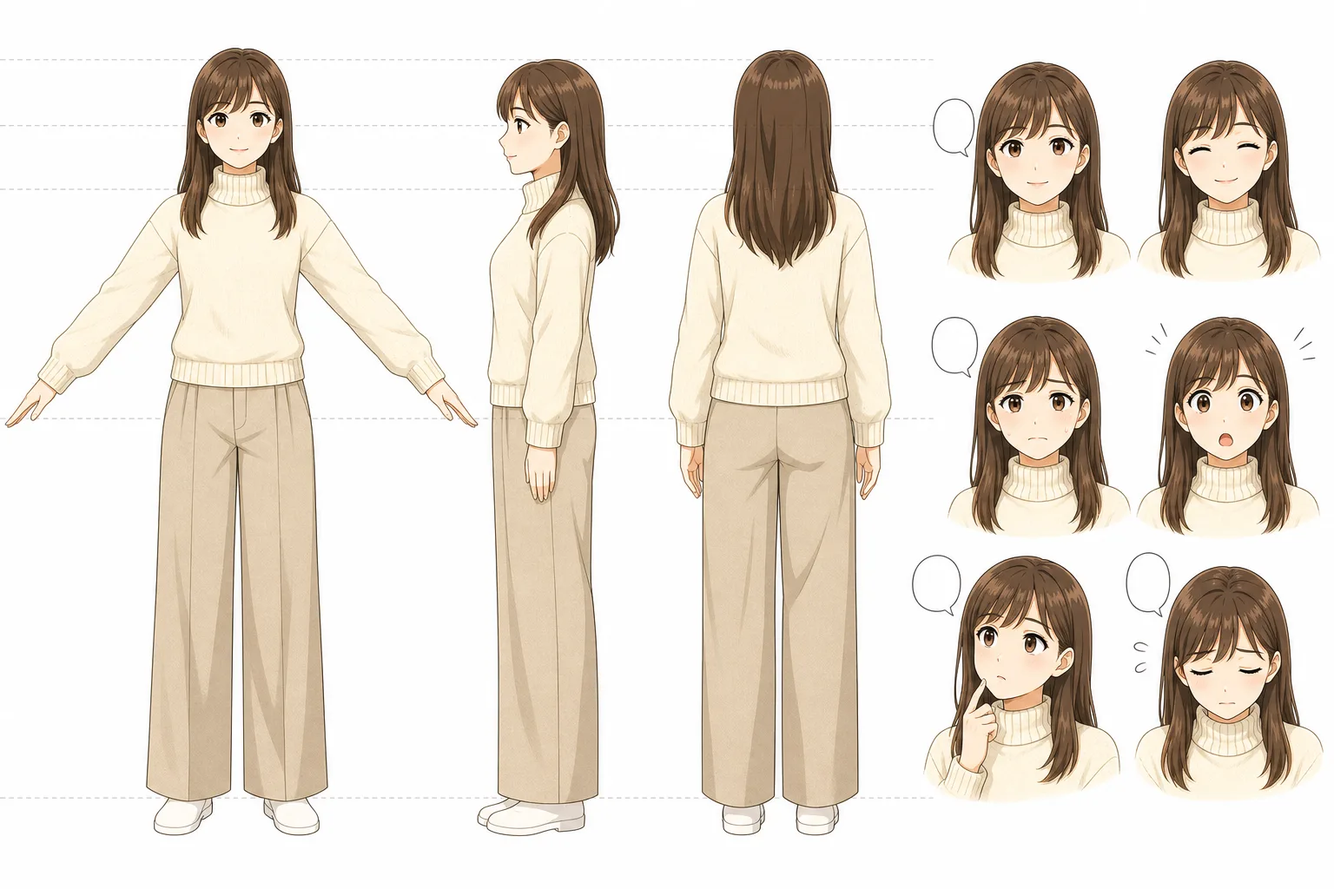
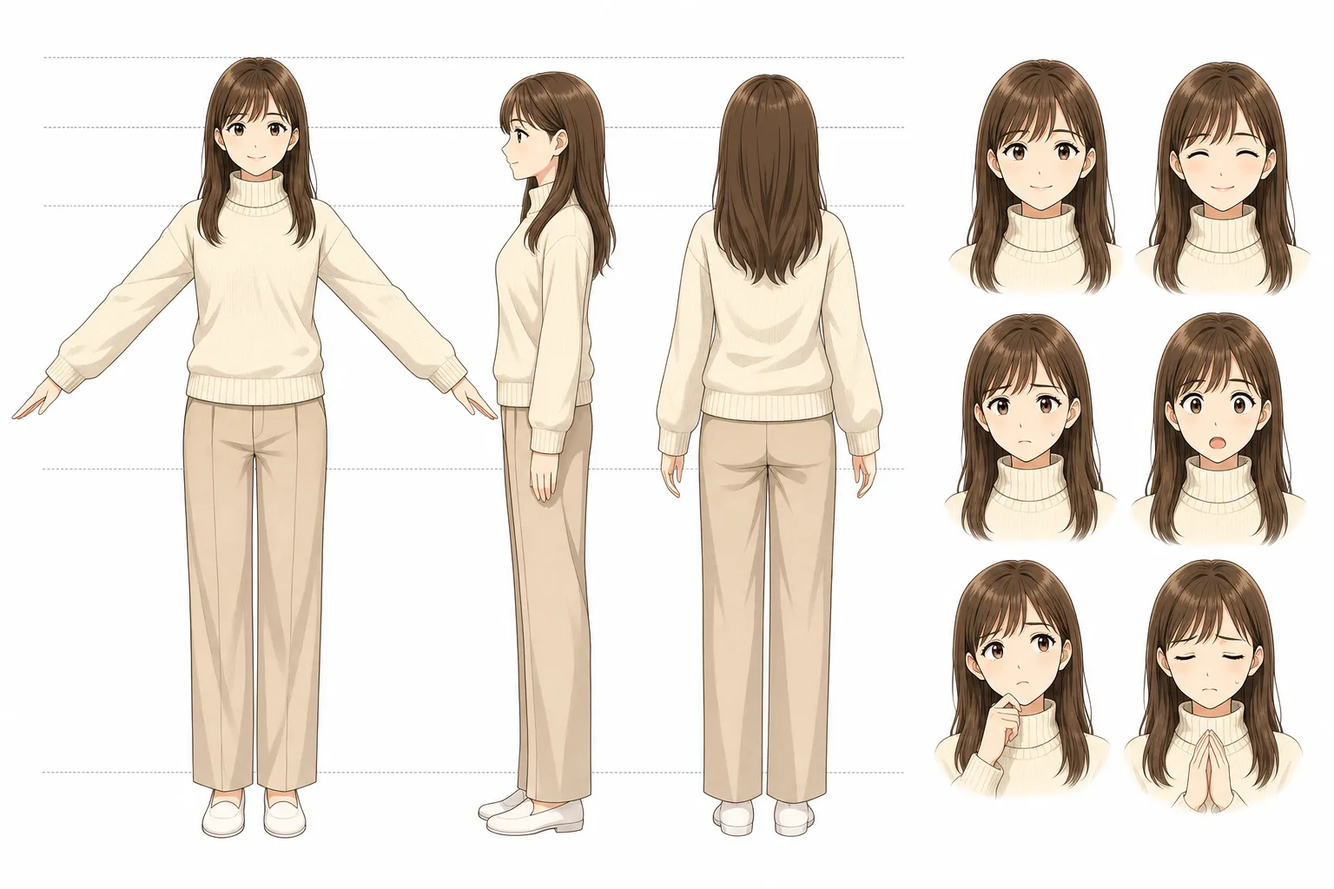
content: 社員キャラの設定を実在のモデルに合わせて書き直す
ご提供の情報と会社サイトの社員紹介から、役割と性格を具体化した。
**名前は架空のまま**（松井社長だけ実名。ほかは モデルとした架空キャラ）。

- 松井（社長）… 2018年に会社を作った。カンボジアと日本をつなぐプログラムを
  自分ではじめ、学生とも直接会って話す
- 藤木（取締役・社長の右腕）… 会社ぜんたいのしくみを作る。お客さまと直接話す
  営業と要件定義。カンボジアで名刺こうかんの授業もした（モデル: 藤田さん）
- 奥田（プログラマー）… 未経験から入り、先輩に聞きながら成長。いまはお客さまの
  会社に行ってはたらく（SES）（モデル: 奥野さん・採用ページの社員の声）
- 西田（事務）… 週2日出勤、ほかは在宅（モデル: 西出さん・同上）
- 湯川（広報営業）… 未経験から挑戦。人なつっこい（モデル: 湯浅さん・同上）

設定画は6人ぶんとも Codex で生成済み（`public/img/characters/<id>/sheet.webp`）。
西田のシートは名前を戻す際に作り直した。

保護パス public/img/characters/ を含むため ALLOW_SHARED=1。

Changed region(s): [[0.0, 0.0312, 0.6875, 0.9375], [0.6875, 0.0625, 1.0, 0.9375], [0.5, 0.8125, 0.5312, 0.875]]

diff --git a/src/content/git-contents.generated.ts b/src/content/git-contents.generated.ts
@@ -17,21 +17,21 @@ export const GIT_CONTENTS: readonly unknown[] = [
   // content/articles/m2_asakai_article.json
   {"kind":"article","id":"m2-asakai-article","title":"朝会と 報告の コツ","description":"朝会で 話すことと、報告の 形を まなびます。","furigana":[["朝会","あさかい"],["報告","ほうこく"],["結論","けつろん"],["予定","よてい"],["毎日","まいにち"],["順調","じゅんちょう"],["数字","すうじ"],["立","た"],["話","はな"],["言","い"],["終","お"],["形","かたち"],["日","ひ"],["聞","き"]],"blocks":[{"kind":"paragraph","text":"朝会は、毎日 あさに する みじかい かいぎです。チームの ようすを みんなで そろえます。"},{"kind":"image","prompt":"Anime illustration, no readable text. A small friendly software team having a short morning stand-up meeting in a bright office: four people standing in a loose half circle near a whiteboard, coffee cups on a nearby desk, big window with soft morning light and a blue sky outside. Everyone looks relaxed and attentive; one person is speaking briefly while the others listen. Wide shot, clean line art, flat cel shading, soft pastel palette of sky blue, cream and coral, rounded friendly shapes. No text, no letters, no numbers, no signage, no speech bubbles, no readable text.","refs":["characters/hendy/reference.png","characters/nyam/reference.png"],"status":"empty","caption":"朝会は 立ったまま、みじかく します。"},{"kind":"heading","level":2,"text":"朝会で 話す 3つのこと"},{"kind":"paragraph","text":"話すことは 3つ です。きのう したこと、きょう すること、こまっていることです。"},{"kind":"steps","items":["きのう したことを、みじかく 言う","きょう することを、みじかく 言う","こまっていることを、そのまま 言う"]},{"kind":"callout","tone":"point","text":"はじめに 結論を 言います。りゆうは あとです。"},{"kind":"heading","level":2,"text":"こまりごとは はやく つたえる"},{"kind":"paragraph","text":"こまっていることは、はやく 言うほど たすかります。「順調です」だけで 終わると、あとで こまります。"},{"kind":"callout","tone":"care","text":"「だいじょうぶです」だけでは、つたわりにくいです。数字や 日にちを そえましょう。"},{"kind":"vocab","items":[{"term":"報告","reading":"ほうこく","meaning":"したことを つたえること"},{"term":"結論","reading":"けつろん","meaning":"いちばん 言いたい こと"},{"term":"予定","reading":"よてい","meaning":"これから する ことです"},{"term":"順調","reading":"じゅんちょう","meaning":"よてい どおりに すすんで いること"}]},{"kind":"link","ref":"sample_asakai","type":"listening","label":"朝会を 聞いてみる"}]},
   // content/characters/fujiki.json
-  {"kind":"character","id":"fujiki","name":"藤木","reading":"ふじき","role":"取締役","looks":"Japanese-style anime character, man in his forties, lean athletic build, energetic upright posture. Very short cropped black hair. Tanned skin, angular jaw, dark brown eyes, thick eyebrows, wide cheerful open-mouth smile. Outfit: navy single-breasted blazer (#1F2A44) worn open over a plain white crew-neck T-shirt, dark navy trousers, white sneakers. No tie, no glasses.","personality":"元気で 声が 大きいです。人を はげますのが とくいです。すぐに 行動します。","sheet":{"prompt":"A character model sheet for a Japanese language-learning manga.\nLayout: front view (full body, T-pose) on the left, right side view and back view next to it,\nand a column of 6 bust-up facial expressions on the right\n(neutral, smiling, worried, surprised, thinking, apologetic).\nWhite background. Light grid lines overlay to keep eye level consistent across views.\nCharacter: 取締役 — Japanese-style anime character, man in his forties, lean athletic build, energetic upright posture. Very short cropped black hair. Tanned skin, angular jaw, dark brown eyes, thick eyebrows, wide cheerful open-mouth smile. Outfit: navy single-breasted blazer (#1F2A44) worn open over a plain white crew-neck T-shirt, dark navy trousers, white sneakers. No tie, no glasses.\nPersonality (affects posture and expression): 元気で 声が 大きいです。人を はげますのが とくいです。すぐに 行動します。\nStyle: clean modern Japanese manga / anime style, soft cel shading, bright friendly palette, rounded shapes, no harsh shadows, office and school settings, contemporary Japan.\nAvoid: no text, no letters, no kanji, no kana, no numbers anywhere in the image, speech balloons must be completely EMPTY (white inside, no writing), no watermark, no signature, no logo, no frame border, no six fingers, no extra limbs, no costume changes between panels, no duplicate faces of the same character in one panel.\nDo NOT write the character's name or any label on the sheet.","refs":["/img/characters/fujiki/reference.jpg"],"status":"done","src":"/img/characters/fujiki/sheet.webp"},"references":["/img/characters/fujiki/reference.jpg"]},
+  {"kind":"character","id":"fujiki","name":"藤木","reading":"ふじき","role":"取締役（社長の右腕）","looks":"Japanese-style anime character, man in his forties, lean athletic build, energetic upright posture. Very short cropped black hair. Tanned skin, angular jaw, dark brown eyes, thick eyebrows, wide cheerful open-mouth smile. Outfit: navy single-breasted blazer (#1F2A44) worn open over a plain white crew-neck T-shirt, dark navy trousers, white sneakers. No tie, no glasses.","personality":"会社ぜんたいの しくみを 作る 人です。お客さまと 直接 話して、何が ほしいかを 聞き、しごとの 形に します（営業と 要件定義）。カンボジアにも 来て、名刺こうかんの 授業を しました。元気で 声が 大きいです。","sheet":{"prompt":"A character model sheet for a Japanese language-learning manga.\nLayout: front view (full body, T-pose) on the left, right side view and back view next to it,\nand a column of 6 bust-up facial expressions on the right\n(neutral, smiling, worried, surprised, thinking, apologetic).\nWhite background. Light grid lines overlay to keep eye level consistent across views.\nCharacter: 取締役 — Japanese-style anime character, man in his forties, lean athletic build, energetic upright posture. Very short cropped black hair. Tanned skin, angular jaw, dark brown eyes, thick eyebrows, wide cheerful open-mouth smile. Outfit: navy single-breasted blazer (#1F2A44) worn open over a plain white crew-neck T-shirt, dark navy trousers, white sneakers. No tie, no glasses.\nPersonality (affects posture and expression): 元気で 声が 大きいです。人を はげますのが とくいです。すぐに 行動します。\nStyle: clean modern Japanese manga / anime style, soft cel shading, bright friendly palette, rounded shapes, no harsh shadows, office and school settings, contemporary Japan.\nAvoid: no text, no letters, no kanji, no kana, no numbers anywhere in the image, speech balloons must be completely EMPTY (white inside, no writing), no watermark, no signature, no logo, no frame border, no six fingers, no extra limbs, no costume changes between panels, no duplicate faces of the same character in one panel.\nDo NOT write the character's name or any label on the sheet.","refs":["/img/characters/fujiki/reference.jpg"],"status":"done","src":"/img/characters/fujiki/sheet.webp"},"references":["/img/characters/fujiki/reference.jpg"]},
   // content/characters/hendy.json
   {"kind":"character","id":"hendy","name":"ヘンディ","reading":"へんでぃ","role":"先輩エンジニア（PM兼プログラマー・チームの相談役）","looks":"Japanese-style anime character, man in his late twenties, slim build, about 175cm, relaxed upright posture. Short black hair, slightly tousled with soft spiky tips and a loose fringe. Dark brown eyes, straight thick eyebrows, clean-shaven, gentle smile. Business suit: navy single-breasted two-button jacket (#2A3550) worn open or buttoned, crisp white dress shirt, solid navy necktie (#233A63), matching navy slacks (#2E3A57), black leather belt, black leather lace-up oxford shoes. No lanyard, no bag, no glasses.","personality":"真面目で おだやかです。人の 話を さいごまで ききます。好奇心が つよく、新しい ことを たのしみます。教えるときは まず ほめてから、つぎに することを 1つだけ 言います。","sheet":{"src":"/img/characters/hendy/sheet.webp","prompt":"ユーザー提供のキャラクター設定シート（正面全身・三面図・側面・表情4カット・服装・カラーパレット）をwebpにしたもの。生成物ではないのでプロンプトは無い。日本語のラベルが入っているが、参照入力としては問題ない。","refs":["/img/characters/hendy/reference.png"],"status":"done"},"references":["/img/characters/hendy/reference.png"],"voice":"Charon"},
   // content/characters/matsui.json
-  {"kind":"character","id":"matsui","name":"松井","reading":"まつい","role":"社長（代表取締役社長）","looks":"Japanese-style anime character, man in his forties, average build, calm confident posture. Black hair with volume on top and a soft side-swept fringe. Fair skin, oval face with soft cheeks, dark brown eyes, straight eyebrows, gentle friendly closed-lip smile. Outfit: navy single-breasted blazer (#1F2A44) worn open over a plain white crew-neck T-shirt, dark navy trousers, brown leather shoes. No tie, no glasses.","personality":"おだやかで たよりに なります。人の 話を よく ききます。大きな 目標を たのしそうに 話します。","sheet":{"prompt":"A character model sheet for a Japanese language-learning manga.\nLayout: front view (full body, T-pose) on the left, right side view and back view next to it,\nand a column of 6 bust-up facial expressions on the right\n(neutral, smiling, worried, surprised, thinking, apologetic).\nWhite background. Light grid lines overlay to keep eye level consistent across views.\nCharacter: 社長（代表取締役社長） — Japanese-style anime character, man in his forties, average build, calm confident posture. Black hair with volume on top and a soft side-swept fringe. Fair skin, oval face with soft cheeks, dark brown eyes, straight eyebrows, gentle friendly closed-lip smile. Outfit: navy single-breasted blazer (#1F2A44) worn open over a plain white crew-neck T-shirt, dark navy trousers, brown leather shoes. No tie, no glasses.\nPersonality (affects posture and expression): おだやかで たよりに なります。人の 話を よく ききます。大きな 目標を たのしそうに 話します。\nStyle: clean modern Japanese manga / anime style, soft cel shading, bright friendly palette, rounded shapes, no harsh shadows, office and school settings, contemporary Japan.\nAvoid: no text, no letters, no kanji, no kana, no numbers anywhere in the image, speech balloons must be completely EMPTY (white inside, no writing), no watermark, no signature, no logo, no frame border, no six fingers, no extra limbs, no costume changes between panels, no duplicate faces of the same character in one panel.\nDo NOT write the character's name or any label on the sheet.","refs":["/img/characters/matsui/reference.jpg"],"status":"done","src":"/img/characters/matsui/sheet.webp"},"references":["/img/characters/matsui/reference.jpg"]},
+  {"kind":"character","id":"matsui","name":"松井","reading":"まつい","role":"社長（代表取締役社長）","looks":"Japanese-style anime character, man in his forties, average build, calm confident posture. Black hair with volume on top and a soft side-swept fringe. Fair skin, oval face with soft cheeks, dark brown eyes, straight eyebrows, gentle friendly closed-lip smile. Outfit: navy single-breasted blazer (#1F2A44) worn open over a plain white crew-neck T-shirt, dark navy trousers, brown leather shoes. No tie, no glasses.","personality":"2018年に この 会社を 作りました。カンボジアと 日本を つなぐ プログラムを 自分で はじめた 人です。「世界中に すごい 人が いる」と しんじて います。学生とも 直接 会って 話します。大きな 目標を たのしそうに 話します。","sheet":{"prompt":"A character model sheet for a Japanese language-learning manga.\nLayout: front view (full body, T-pose) on the left, right side view and back view next to it,\nand a column of 6 bust-up facial expressions on the right\n(neutral, smiling, worried, surprised, thinking, apologetic).\nWhite background. Light grid lines overlay to keep eye level consistent across views.\nCharacter: 社長（代表取締役社長） — Japanese-style anime character, man in his forties, average build, calm confident posture. Black hair with volume on top and a soft side-swept fringe. Fair skin, oval face with soft cheeks, dark brown eyes, straight eyebrows, gentle friendly closed-lip smile. Outfit: navy single-breasted blazer (#1F2A44) worn open over a plain white crew-neck T-shirt, dark navy trousers, brown leather shoes. No tie, no glasses.\nPersonality (affects posture and expression): おだやかで たよりに なります。人の 話を よく ききます。大きな 目標を たのしそうに 話します。\nStyle: clean modern Japanese manga / anime style, soft cel shading, bright friendly palette, rounded shapes, no harsh shadows, office and school settings, contemporary Japan.\nAvoid: no text, no letters, no kanji, no kana, no numbers anywhere in the image, speech balloons must be completely EMPTY (white inside, no writing), no watermark, no signature, no logo, no frame border, no six fingers, no extra limbs, no costume changes between panels, no duplicate faces of the same character in one panel.\nDo NOT write the character's name or any label on the sheet.","refs":["/img/characters/matsui/reference.jpg"],"status":"done","src":"/img/characters/matsui/sheet.webp"},"references":["/img/characters/matsui/reference.jpg"]},
   // content/characters/nishida.json
-  {"kind":"character","id":"nishida","name":"西田","reading":"にしだ","role":"社員","looks":"Japanese-style anime character, woman in her mid twenties, slim, gentle posture. Long light-brown hair falling past the shoulders with a soft straight fringe. Fair skin, dark brown eyes, warm closed-lip smile. Outfit: cream-white chunky-knit turtleneck sweater (#F0E6D2), beige wide trousers, white shoes. No glasses.","personality":"しずかで ていねいです。こまかい ところに よく 気が つきます。","sheet":{"prompt":"A character model sheet for a Japanese language-learning manga.\nLayout: front view (full body, T-pose) on the left, right side view and back view next to it,\nand a column of 6 bust-up facial expressions on the right\n(neutral, smiling, worried, surprised, thinking, apologetic).\nWhite background. Light grid lines overlay to keep eye level consistent across views.\nCharacter: 社員 — Japanese-style anime character, woman in her mid twenties, slim, gentle posture. Long light-brown hair falling past the shoulders with a soft straight fringe. Fair skin, dark brown eyes, warm closed-lip smile. Outfit: cream-white chunky-knit turtleneck sweater (#F0E6D2), beige wide trousers, white shoes. No glasses.\nPersonality (affects posture and expression): しずかで ていねいです。こまかい ところに よく 気が つきます。\nStyle: clean modern Japanese manga / anime style, soft cel shading, bright friendly palette, rounded shapes, no harsh shadows, office and school settings, contemporary Japan.\nAvoid: no text, no letters, no kanji, no kana, no numbers anywhere in the image, speech balloons must be completely EMPTY (white inside, no writing), no watermark, no signature, no logo, no frame border, no six fingers, no extra limbs, no costume changes between panels, no duplicate faces of the same character in one panel.\nDo NOT write the character's name or any label on the sheet.","refs":["/img/characters/nishida/reference.jpg"],"status":"done","src":"/img/characters/nishida/sheet.webp"},"references":["/img/characters/nishida/reference.jpg"]},
+  {"kind":"character","id":"nishida","name":"西田","reading":"にしだ","role":"事務","looks":"Japanese-style anime character, woman in her mid twenties, slim, gentle posture. Long light-brown hair falling past the shoulders with a soft straight fringe. Fair skin, dark brown eyes, warm closed-lip smile. Outfit: cream-white chunky-knit turtleneck sweater (#F0E6D2), beige wide trousers, white shoes. No glasses.","personality":"会社の じむの しごとを して います。出勤は 週2日で、ほかは 家で はたらきます。しずかで ていねいです。こまかい ところに よく 気が つきます。","sheet":{"prompt":"A character model sheet for a Japanese language-learning manga.\nLayout: front view (full body, T-pose) on the left, right side view and back view next to it,\nand a column of 6 bust-up facial expressions on the right\n(neutral, smiling, worried, surprised, thinking, apologetic).\nWhite background. Light grid lines overlay to keep eye level consistent across views.\nCharacter: 社員 — Japanese-style anime character, woman in her mid twenties, slim, gentle posture. Long light-brown hair falling past the shoulders with a soft straight fringe. Fair skin, dark brown eyes, warm closed-lip smile. Outfit: cream-white chunky-knit turtleneck sweater (#F0E6D2), beige wide trousers, white shoes. No glasses.\nPersonality (affects posture and expression): しずかで ていねいです。こまかい ところに よく 気が つきます。\nStyle: clean modern Japanese manga / anime style, soft cel shading, bright friendly palette, rounded shapes, no harsh shadows, office and school settings, contemporary Japan.\nAvoid: no text, no letters, no kanji, no kana, no numbers anywhere in the image, speech balloons must be completely EMPTY (white inside, no writing), no watermark, no signature, no logo, no frame border, no six fingers, no extra limbs, no costume changes between panels, no duplicate faces of the same character in one panel.\nDo NOT write the character's name or any label on the sheet.","refs":["/img/characters/nishida/reference.jpg"],"status":"done","src":"/img/characters/nishida/sheet.webp"},"references":["/img/characters/nishida/reference.jpg"]},
   // content/characters/nyam.json
   {"kind":"character","id":"nyam","name":"ニャム","reading":"にゃむ","role":"同期の新人エンジニア（学習者と同じ立場）","looks":"Southeast Asian woman in her early twenties. Dark brown bob haircut ending at the jaw, straight fringe just above the eyebrows, one small black hair clip on the right side. Round face, large dark brown eyes, small mouth. Wears a coral (#F2654A) knit cardigan over a plain cream blouse, dark navy ankle-length trousers, and flat beige loafers. Carries a small A6 white notebook and a blue ballpoint pen. Height about 158cm, slight build, slightly hunched shoulders when nervous.","personality":"まじめで よく メモを とる。きんちょうすると 話が 長くなり、けつろんが あとに なる。まちがえても もう一度 やってみる。","sheet":{"src":"/img/characters/nyam/sheet.webp","refs":[],"status":"done"},"references":[],"voice":"Leda"},
   // content/characters/okuda.json
-  {"kind":"character","id":"okuda","name":"奥田","reading":"おくだ","role":"社員（エンジニア）","looks":"Japanese-style anime character, man in his mid twenties, medium build, relaxed posture. Wavy messy black hair with volume. Black rectangular thick-rimmed glasses. Fair skin, dark brown eyes, calm gentle smile. Outfit: dark green pullover hoodie (#2E4034) with drawstrings and no writing on it, dark trousers, grey sneakers.","personality":"おちついて います。ひとつの ことに しゅうちゅうします。聞かれると ていねいに 教えます。","sheet":{"prompt":"A character model sheet for a Japanese language-learning manga.\nLayout: front view (full body, T-pose) on the left, right side view and back view next to it,\nand a column of 6 bust-up facial expressions on the right\n(neutral, smiling, worried, surprised, thinking, apologetic).\nWhite background. Light grid lines overlay to keep eye level consistent across views.\nCharacter: 社員（エンジニア） — Japanese-style anime character, man in his mid twenties, medium build, relaxed posture. Wavy messy black hair with volume. Black rectangular thick-rimmed glasses. Fair skin, dark brown eyes, calm gentle smile. Outfit: dark green pullover hoodie (#2E4034) with drawstrings and no writing on it, dark trousers, grey sneakers.\nPersonality (affects posture and expression): おちついて います。ひとつの ことに しゅうちゅうします。聞かれると ていねいに 教えます。\nStyle: clean modern Japanese manga / anime style, soft cel shading, bright friendly palette, rounded shapes, no harsh shadows, office and school settings, contemporary Japan.\nAvoid: no text, no letters, no kanji, no kana, no numbers anywhere in the image, speech balloons must be completely EMPTY (white inside, no writing), no watermark, no signature, no logo, no frame border, no six fingers, no extra limbs, no costume changes between panels, no duplicate faces of the same character in one panel.\nDo NOT write the character's name or any label on the sheet.","refs":["/img/characters/okuda/reference.jpg"],"status":"done","src":"/img/characters/okuda/sheet.webp"},"references":["/img/characters/okuda/reference.jpg"]},
+  {"kind":"character","id":"okuda","name":"奥田","reading":"おくだ","role":"プログラマー（お客さまの 会社で はたらく）","looks":"Japanese-style anime character, man in his mid twenties, medium build, relaxed posture. Wavy messy black hair with volume. Black rectangular thick-rimmed glasses. Fair skin, dark brown eyes, calm gentle smile. Outfit: dark green pullover hoodie (#2E4034) with drawstrings and no writing on it, dark trousers, grey sneakers.","personality":"プログラミングは 未経験で 入りました。先輩に 聞きながら 成長しました。いまは お客さまの 会社に 行って はたらいて います（SES）。おちついて いて、聞かれると ていねいに 教えます。","sheet":{"prompt":"A character model sheet for a Japanese language-learning manga.\nLayout: front view (full body, T-pose) on the left, right side view and back view next to it,\nand a column of 6 bust-up facial expressions on the right\n(neutral, smiling, worried, surprised, thinking, apologetic).\nWhite background. Light grid lines overlay to keep eye level consistent across views.\nCharacter: 社員（エンジニア） — Japanese-style anime character, man in his mid twenties, medium build, relaxed posture. Wavy messy black hair with volume. Black rectangular thick-rimmed glasses. Fair skin, dark brown eyes, calm gentle smile. Outfit: dark green pullover hoodie (#2E4034) with drawstrings and no writing on it, dark trousers, grey sneakers.\nPersonality (affects posture and expression): おちついて います。ひとつの ことに しゅうちゅうします。聞かれると ていねいに 教えます。\nStyle: clean modern Japanese manga / anime style, soft cel shading, bright friendly palette, rounded shapes, no harsh shadows, office and school settings, contemporary Japan.\nAvoid: no text, no letters, no kanji, no kana, no numbers anywhere in the image, speech balloons must be completely EMPTY (white inside, no writing), no watermark, no signature, no logo, no frame border, no six fingers, no extra limbs, no costume changes between panels, no duplicate faces of the same character in one panel.\nDo NOT write the character's name or any label on the sheet.","refs":["/img/characters/okuda/reference.jpg"],"status":"done","src":"/img/characters/okuda/sheet.webp"},"references":["/img/characters/okuda/reference.jpg"]},
   // content/characters/risa.json
   {"kind":"character","id":"risa","name":"りさ","reading":"りさ","role":"日本語の先生","looks":"Japanese-style anime character, woman in her early twenties, slim, lively posture. Long straight black hair tied in a low ponytail, with a straight fringe across the forehead. Fair skin, dark brown eyes, bright open smile. Outfit: navy short-sleeve polo shirt (#26355B) with a small white embroidered mark on the left chest, long black pleated skirt to mid-calf, white sneakers. No glasses.","personality":"あかるくて 元気です。ゆっくり はっきり 話します。よく ほめます。","sheet":{"prompt":"A character model sheet for a Japanese language-learning manga.\nLayout: front view (full body, T-pose) on the left, right side view and back view next to it,\nand a column of 6 bust-up facial expressions on the right\n(neutral, smiling, worried, surprised, thinking, apologetic).\nWhite background. Light grid lines overlay to keep eye level consistent across views.\nCharacter: 日本語の先生 — Japanese-style anime character, woman in her early twenties, slim, lively posture. Long straight black hair tied in a low ponytail, with a straight fringe across the forehead. Fair skin, dark brown eyes, bright open smile. Outfit: navy short-sleeve polo shirt (#26355B) with a small white embroidered mark on the left chest, long black pleated skirt to mid-calf, white sneakers. No glasses.\nPersonality (affects posture and expression): あかるくて 元気です。ゆっくり はっきり 話します。よく ほめます。\nStyle: clean modern Japanese manga / anime style, soft cel shading, bright friendly palette, rounded shapes, no harsh shadows, office and school settings, contemporary Japan.\nAvoid: no text, no letters, no kanji, no kana, no numbers anywhere in the image, speech balloons must be completely EMPTY (white inside, no writing), no watermark, no signature, no logo, no frame border, no six fingers, no extra limbs, no costume changes between panels, no duplicate faces of the same character in one panel.\nDo NOT write the character's name or any label on the sheet.","refs":["/img/characters/risa/reference.jpg"],"status":"done","src":"/img/characters/risa/sheet.webp"},"references":["/img/characters/risa/reference.jpg"]},
   // content/characters/yukawa.json
-  {"kind":"character","id":"yukawa","name":"湯川","reading":"ゆかわ","role":"社員","looks":"Japanese-style anime character, woman in her mid twenties, slim, friendly posture. Long brown hair with lighter ombre ends, side-parted with no fringe. Fair skin, dark brown eyes, bright open smile. Outfit: light grey knit cardigan (#B9B9B9) with round pearl buttons over a matching grey top, cream-white long skirt, beige flat shoes. No glasses.","personality":"人なつっこくて よく わらいます。はじめての 人にも すぐ 話しかけます。","sheet":{"prompt":"A character model sheet for a Japanese language-learning manga.\nLayout: front view (full body, T-pose) on the left, right side view and back view next to it,\nand a column of 6 bust-up facial expressions on the right\n(neutral, smiling, worried, surprised, thinking, apologetic).\nWhite background. Light grid lines overlay to keep eye level consistent across views.\nCharacter: 社員 — Japanese-style anime character, woman in her mid twenties, slim, friendly posture. Long brown hair with lighter ombre ends, side-parted with no fringe. Fair skin, dark brown eyes, bright open smile. Outfit: light grey knit cardigan (#B9B9B9) with round pearl buttons over a matching grey top, cream-white long skirt, beige flat shoes. No glasses.\nPersonality (affects posture and expression): 人なつっこくて よく わらいます。はじめての 人にも すぐ 話しかけます。\nStyle: clean modern Japanese manga / anime style, soft cel shading, bright friendly palette, rounded shapes, no harsh shadows, office and school settings, contemporary Japan.\nAvoid: no text, no letters, no kanji, no kana, no numbers anywhere in the image, speech balloons must be completely EMPTY (white inside, no writing), no watermark, no signature, no logo, no frame border, no six fingers, no extra limbs, no costume changes between panels, no duplicate faces of the same character in one panel.\nDo NOT write the character's name or any label on the sheet.","refs":["/img/characters/yukawa/reference.jpg"],"status":"done","src":"/img/characters/yukawa/sheet.webp"},"references":["/img/characters/yukawa/reference.jpg"]},
+  {"kind":"character","id":"yukawa","name":"湯川","reading":"ゆかわ","role":"広報営業","looks":"Japanese-style anime character, woman in her mid twenties, slim, friendly posture. Long brown hair with lighter ombre ends, side-parted with no fringe. Fair skin, dark brown eyes, bright open smile. Outfit: light grey knit cardigan (#B9B9B9) with round pearl buttons over a matching grey top, cream-white long skirt, beige flat shoes. No glasses.","personality":"未経験から 挑戦して います。会社の ことを 外に つたえる しごとです。人なつっこくて よく わらいます。はじめての 人にも すぐ 話しかけます。","sheet":{"prompt":"A character model sheet for a Japanese language-learning manga.\nLayout: front view (full body, T-pose) on the left, right side view and back view next to it,\nand a column of 6 bust-up facial expressions on the right\n(neutral, smiling, worried, surprised, thinking, apologetic).\nWhite background. Light grid lines overlay to keep eye level consistent across views.\nCharacter: 社員 — Japanese-style anime character, woman in her mid twenties, slim, friendly posture. Long brown hair with lighter ombre ends, side-parted with no fringe. Fair skin, dark brown eyes, bright open smile. Outfit: light grey knit cardigan (#B9B9B9) with round pearl buttons over a matching grey top, cream-white long skirt, beige flat shoes. No glasses.\nPersonality (affects posture and expression): 人なつっこくて よく わらいます。はじめての 人にも すぐ 話しかけます。\nStyle: clean modern Japanese manga / anime style, soft cel shading, bright friendly palette, rounded shapes, no harsh shadows, office and school settings, contemporary Japan.\nAvoid: no text, no letters, no kanji, no kana, no numbers anywhere in the image, speech balloons must be completely EMPTY (white inside, no writing), no watermark, no signature, no logo, no frame border, no six fingers, no extra limbs, no costume changes between panels, no duplicate faces of the same character in one panel.\nDo NOT write the character's name or any label on the sheet.","refs":["/img/characters/yukawa/reference.jpg"],"status":"done","src":"/img/characters/yukawa/sheet.webp"},"references":["/img/characters/yukawa/reference.jpg"]},
   // content/listening/sample_asakai.json
   {"kind":"listening","id":"sample_asakai","title":"朝会（サンプル）","description":"リスニングの画面と聞き取りチェックの動作確認用です。","focus":"ヘンディさんが「こまっていること」を どう つたえるかに 注目して 聞いてみましょう。","participants":[{"id":"fujiki","name":"藤木","role":"リーダー","accent":"sky"},{"id":"hendy","name":"ヘンディ","role":"先輩","accent":"leaf"},{"id":"nyam","name":"ニャム","role":"同期","accent":"coral"}],"script":[{"speaker":"narration","text":"朝の9時です。チームの朝会がはじまります。"},{"speaker":"fujiki","text":"おはようございます。では、今日の予定を一人ずつお願いします。"},{"speaker":"hendy","text":"おはようございます。昨日はログイン画面のテストをしました。今日は残りのテストを終わらせます。"},{"speaker":"hendy","text":"一つ相談があります。サーバーのエラーで、テストが止まってしまいました。原因はまだ分かりません。"},{"speaker":"fujiki","text":"早く言ってくれて助かります。あとで一緒に見ましょう。ニャムさんはどうですか。"},{"speaker":"nyam","text":"おはようございます。私は今日、画面のデザインを直します。午後に共有します。"},{"speaker":"me","text":"おはようございます。今日は仕様書を読んで、分からないことを質問します。"}],"keywords":["テスト","サーバー","エラー","原因","相談"],"revealGoal":30,"furigana":[["朝会","あさかい"],["予定","よてい"],["昨日","きのう"],["画面","がめん"],["今日","きょう"],["残","のこ"],["終","お"],["相談","そうだん"],["原因","げんいん"],["分","わ"],["早","はや"],["言","い"],["助","たす"],["一緒","いっしょ"],["見","み"],["私","わたし"],["直","なお"],["午後","ごご"],["共有","きょうゆう"],["仕様書","しようしょ"],["読","よ"],["質問","しつもん"],["注目","ちゅうもく"],["聞","き"],["一人","ひとり"],["願","ねが"],["朝","あさ"],["聞き取り","ききとり"],["動作確認","どうさかくにん"],["用","よう"],["時","じ"],["一つ","ひとつ"],["止","と"]]},
   // content/manga/hajimari_manga.json
